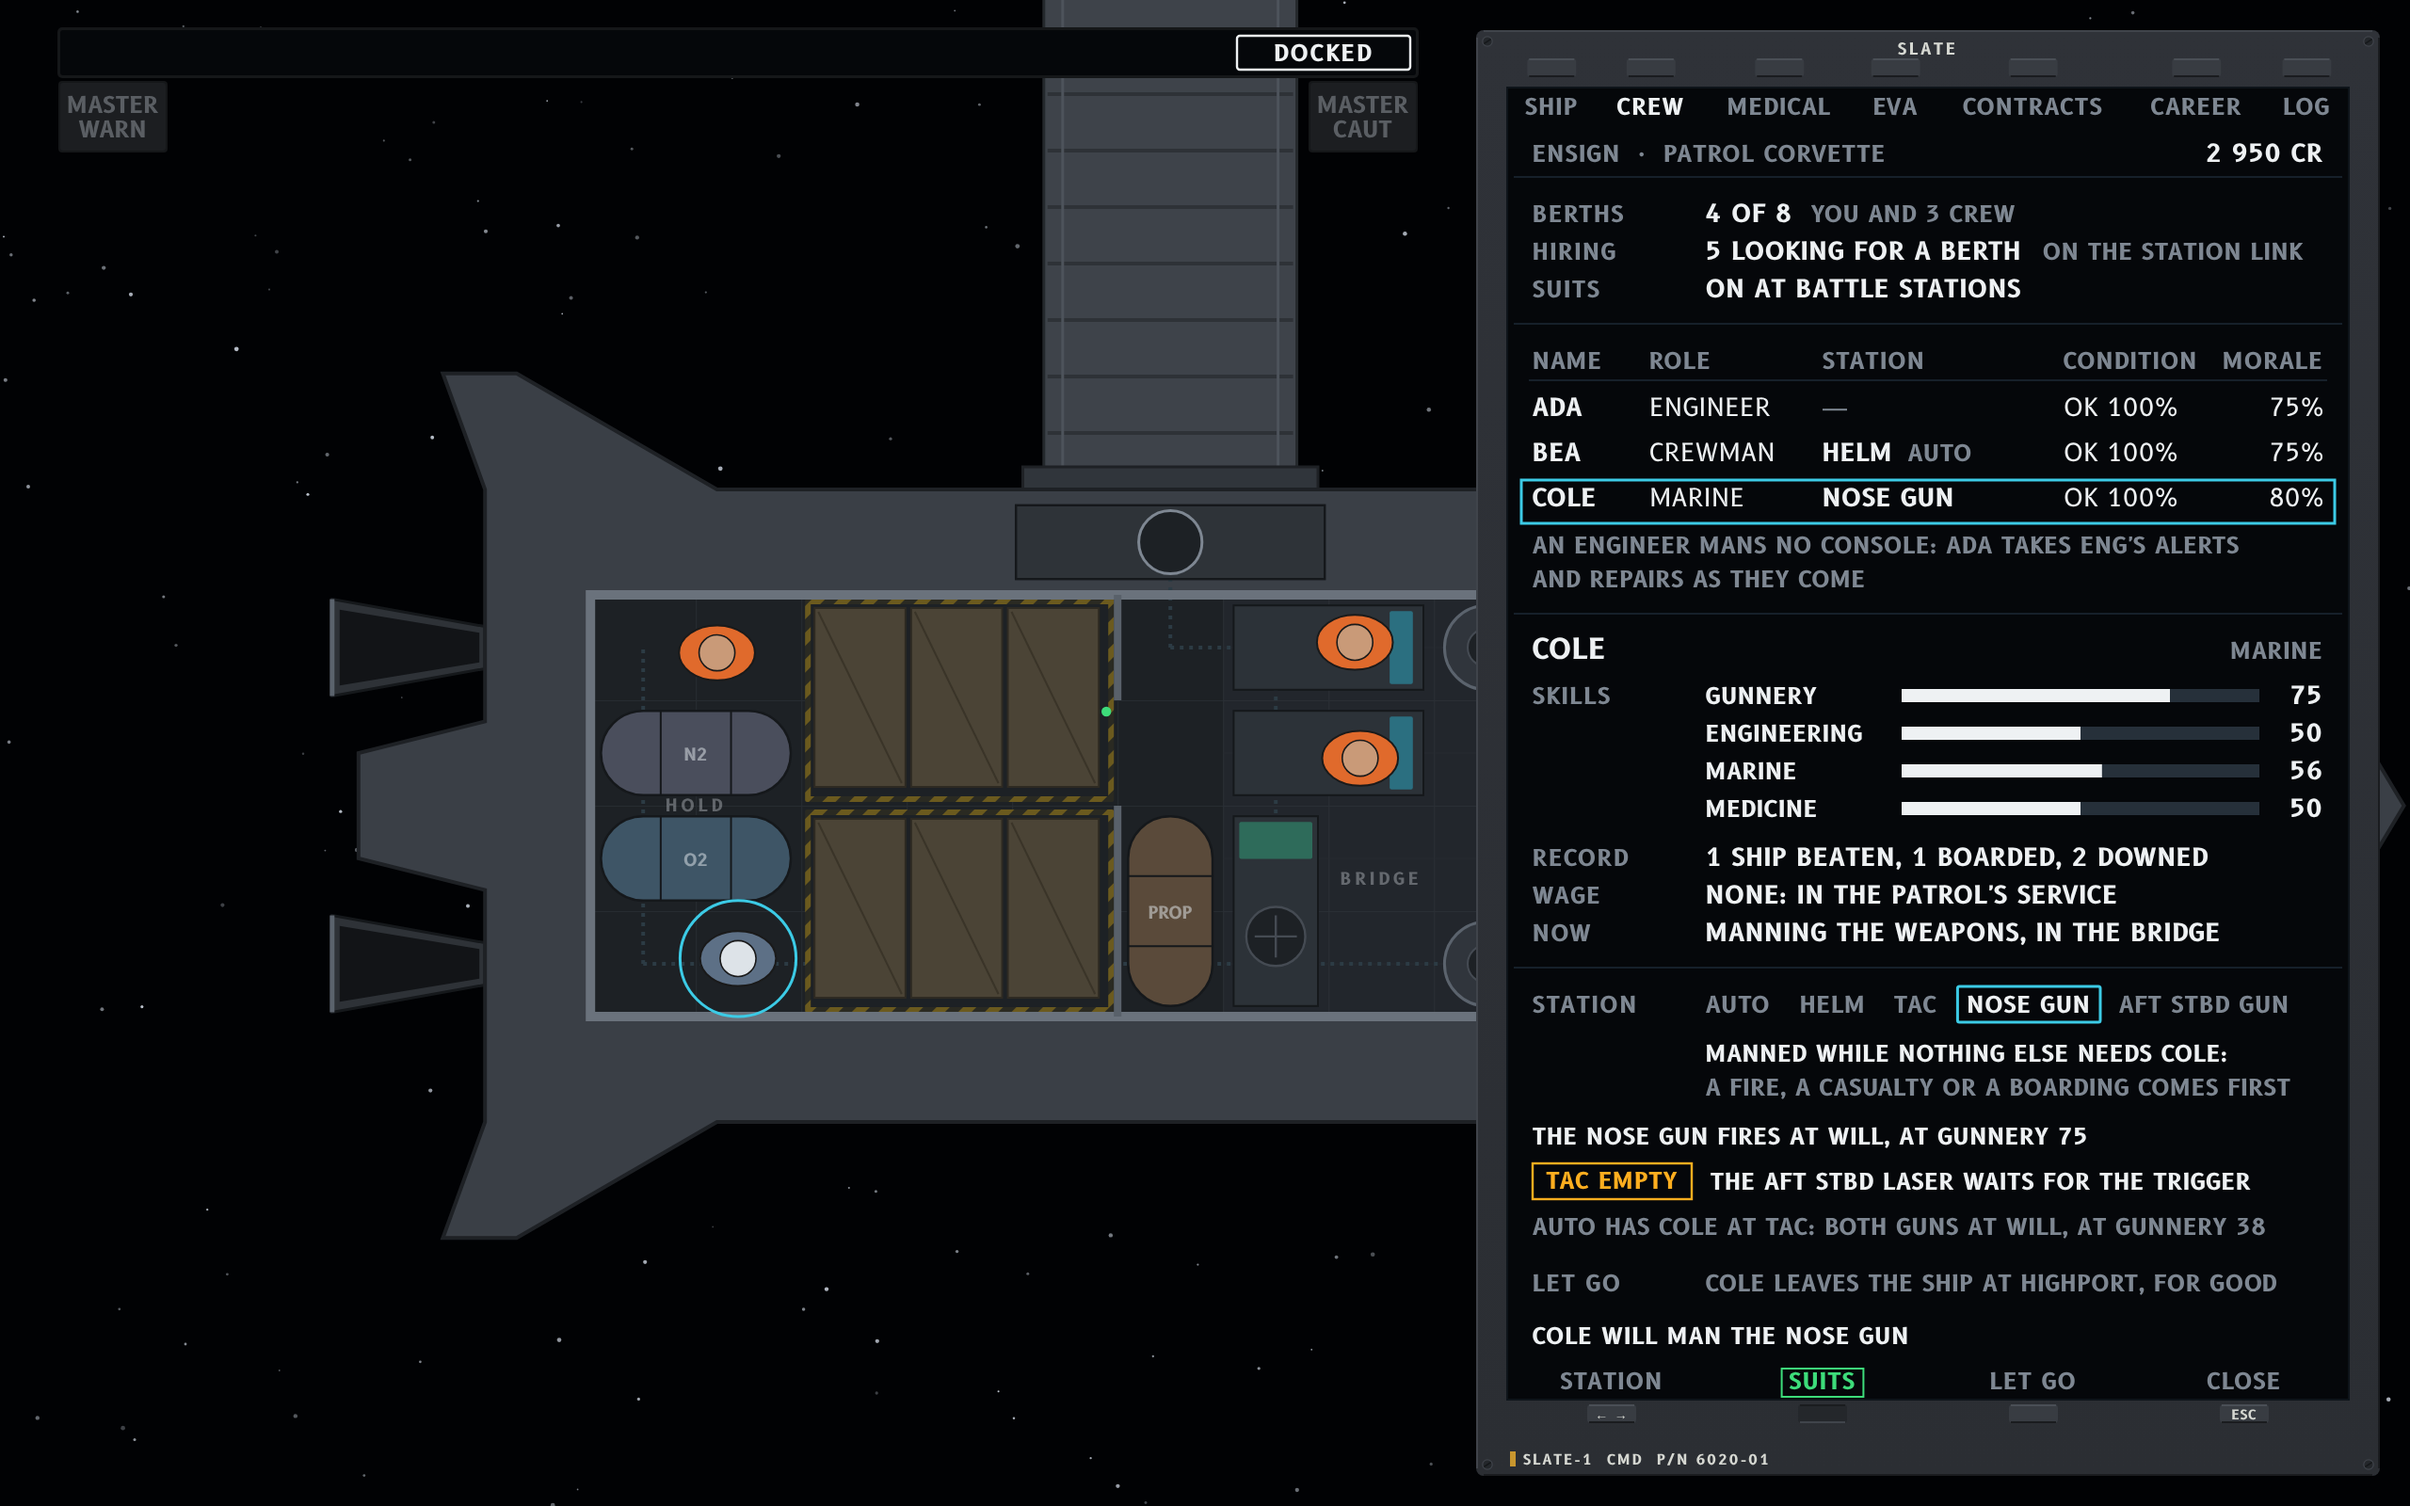
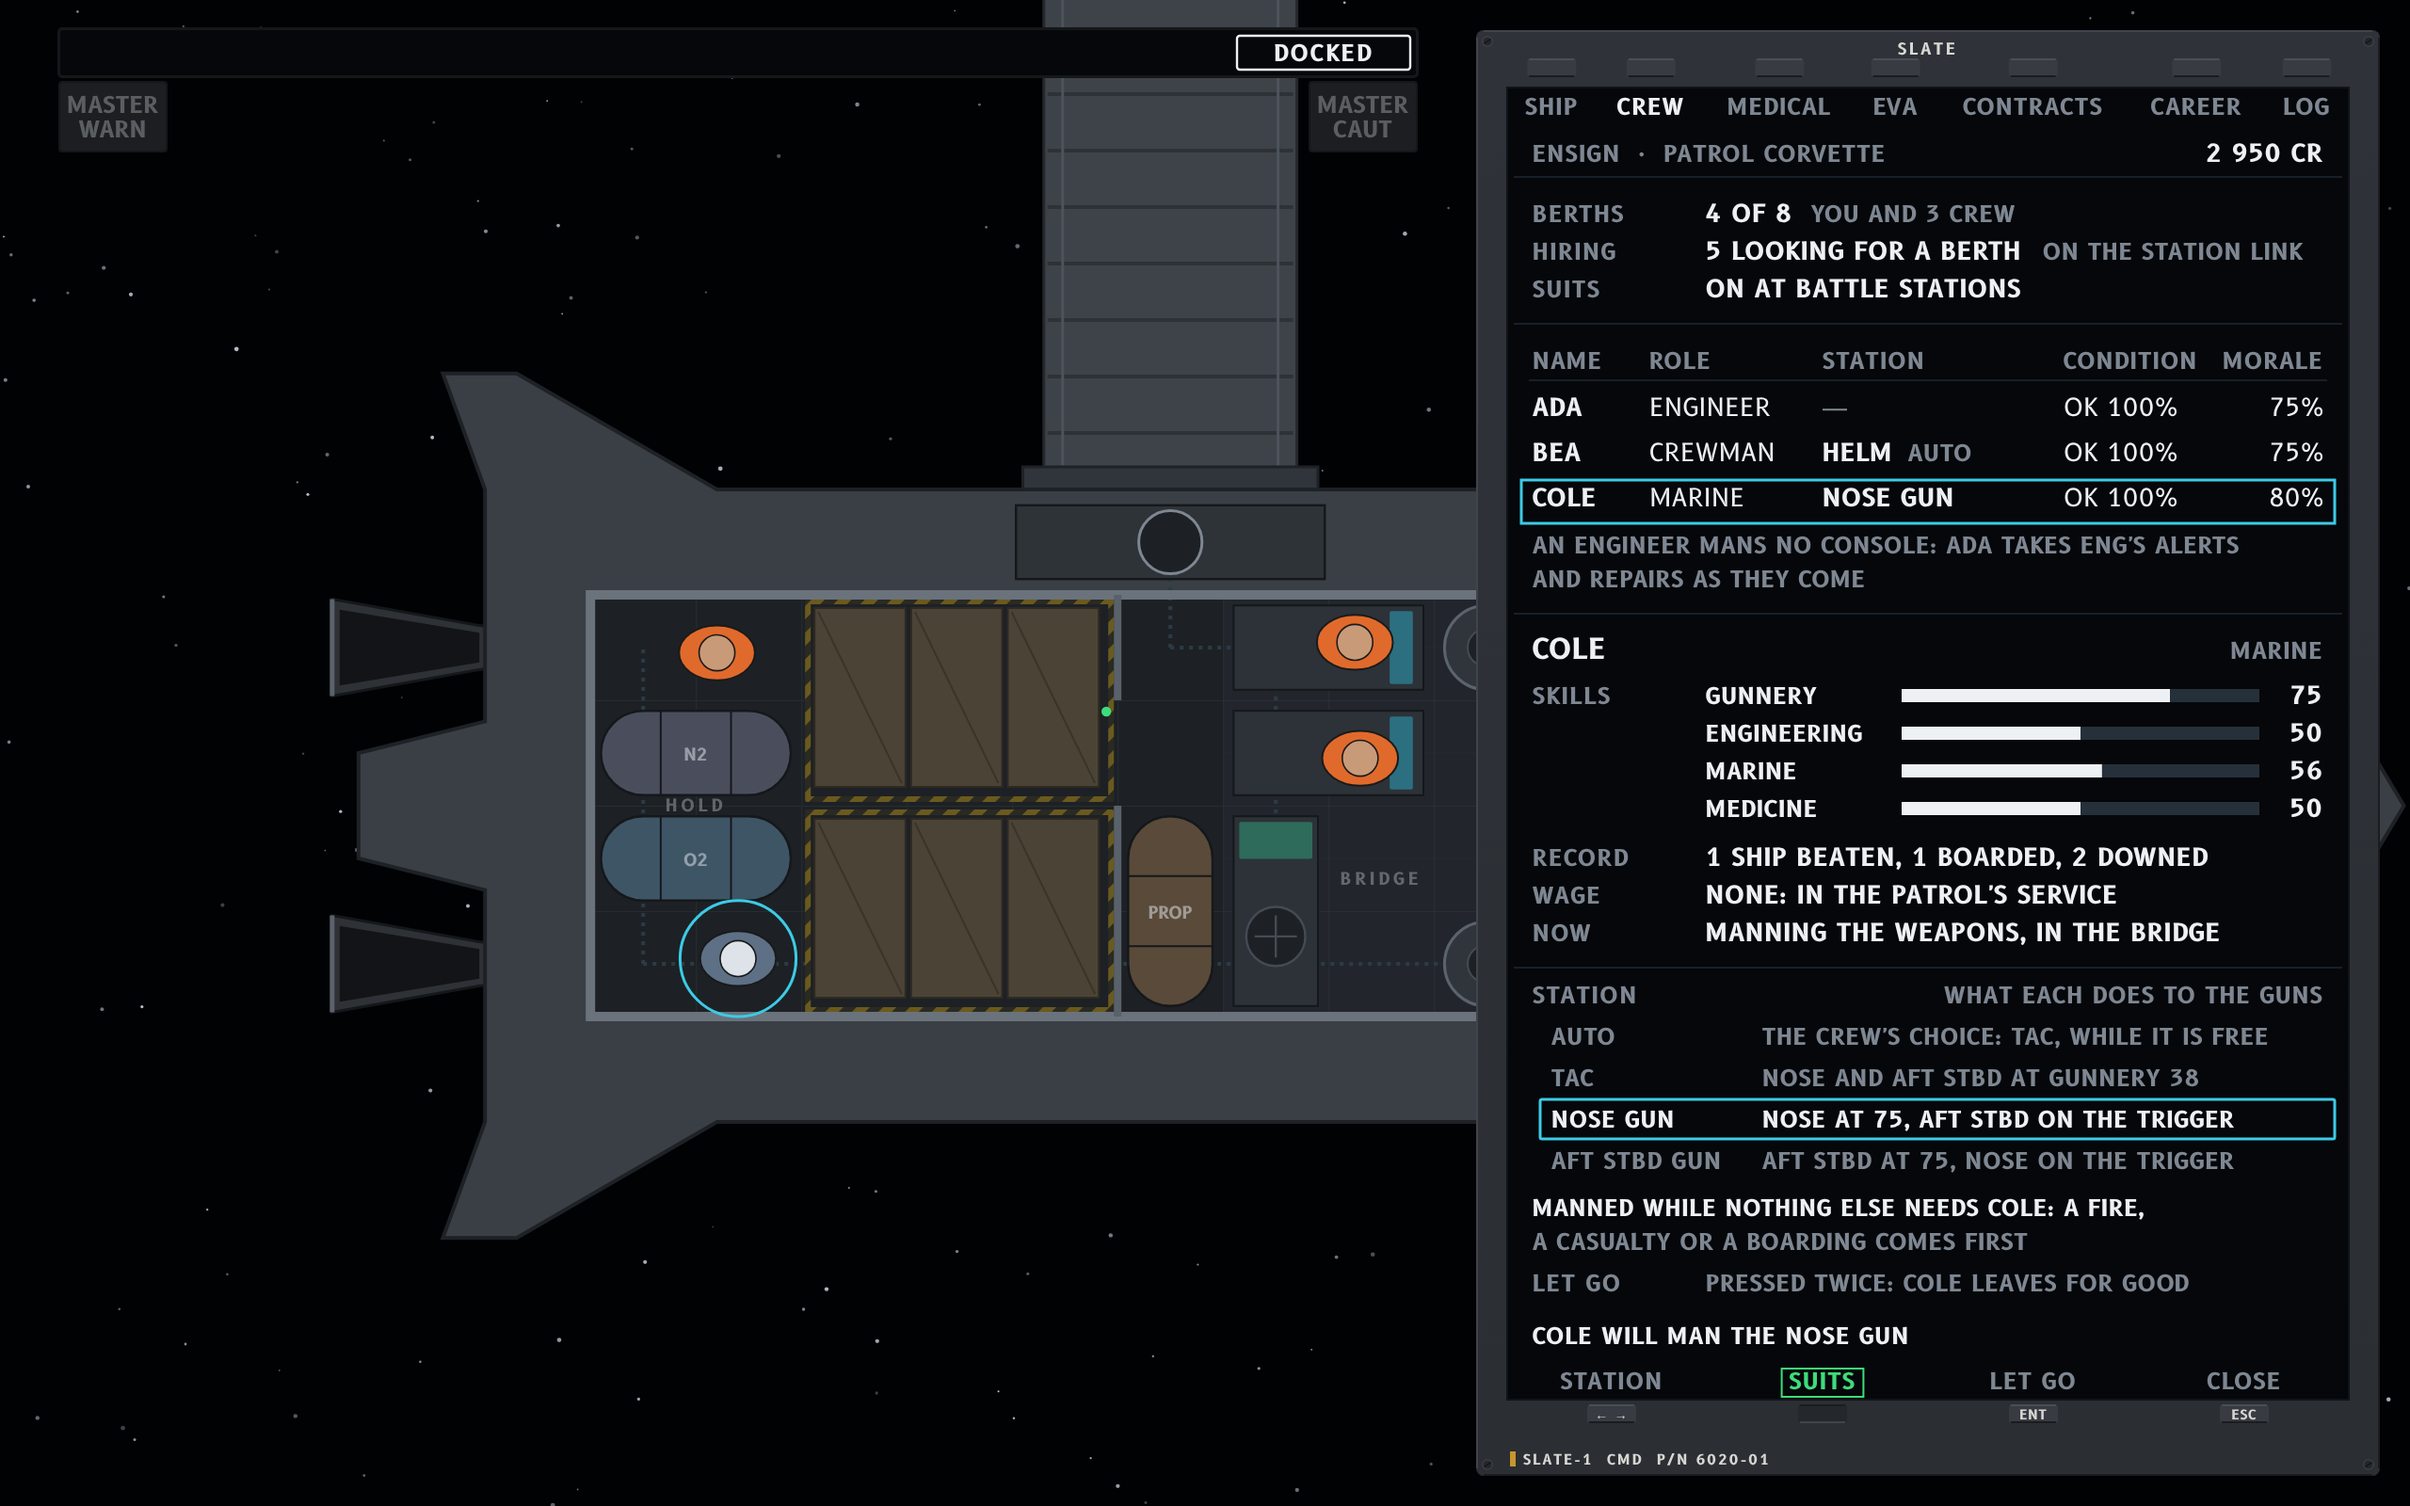
Nasa-punk screens: the slate's Crew tab at the stations spec's round 15
Cole's station selector offers only what a marine mans, with what each
choice does to the guns beside it, and letting go takes Enter twice.

Claude-Session: https://claude.ai/code/session_019poqwU7t7xAtWdh55iGaqe

Changed region(s): [[0.625, 0.6562, 0.9688, 0.875]]

diff --git a/documentation/ui-overhaul/variations/nasapunk-stations/s7-slate-crew.html b/documentation/ui-overhaul/variations/nasapunk-stations/s7-slate-crew.html
@@ -23,16 +23,19 @@
 // assignment replaces only which console a person mans, so it holds while nothing else needs them,
 // and a fire, a casualty or a boarding still comes first, as manning does today.
 //
-// The cursor is on Cole, and I have pressed → once: AUTO to the NOSE GUN. The page says what that
-// does with the game's own rules (GunCrews): a gunner at a mount works that gun at their own
-// gunnery, Cole's 75; the weapons console works every gun at half its gunner's (REMOTE_SKILL), 38;
-// a gun nobody works waits for the trigger. On the corvette the guns a gunner works are the nose's
-// coilgun and the aft starboard laser: the two autocannons are point defense, which keeps to itself,
-// and the launcher waits for the captain's word. So Cole at the nose leaves TAC empty and the laser
-// on the trigger. Docked, the guns hold whoever works them, so the order is for the next fight.
+// The cursor is on Cole, and I have pressed → twice: AUTO to TAC, then to the NOSE GUN. The selector
+// offers only what Cole's role mans (round 15, CrewRole's affinities): a marine takes the weapons
+// console or a gun, never the helm. Beside each choice the tab says what it does, with the game's
+// own rules (GunCrews): a gunner at a mount works that gun at their own gunnery, Cole's 75; the
+// weapons console works every gun at half its gunner's (REMOTE_SKILL), 38; a gun nobody works waits
+// for the trigger. On the corvette the guns a gunner works are the NOSE coilgun and the AFT STBD
+// laser: the two autocannons are point defense, which keeps to itself, and the launcher waits for
+// the captain's word. So Cole at the nose leaves the laser on the trigger. Docked, the guns hold
+// whoever works them, so the order is for the next fight.
 //
-// Letting go is docked only (CrewHiring.dismiss: "Dock at a station to let crew go"), and the
-// response would be the game's "Cole leaves the ship". Suits at battle stations is on, the game's
+// Letting go is docked only (CrewHiring.dismiss: "Dock at a station to let crew go") and can't be
+// undone, so it takes a second press (round 15): the first asks "Let Cole go? [Enter] again: Cole
+// leaves the ship for good", and the second gives the game's "Cole leaves the ship". Suits at battle stations is on, the game's
 // default. The starting crew are the service's, so they draw no wage. Skills from the game: every
 // skill starts at 50, a marine's gunnery at 75 (CrewDef.marine), and the boarding and the two Cole
 // downed took Cole's marine skill to 56. Morale rose 5 points for the ship beaten and 5 more for
@@ -71,8 +74,8 @@ s += consoleFace(P.x, P.y, P.w, P.h, {
   // the tabs the slate has now: no Boarding (not latched) and no Prisoners (none held)
   tabs: ['SHIP', { t: 'CREW', state: 'cur' }, 'MEDICAL', 'EVA', 'CONTRACTS', 'CAREER', 'LOG'].map(t => typeof t === 'string' ? { t, w: tabW(t) } : Object.assign(t, { w: tabW(t.t) })),
   // the orders: the cursor's station stepped with the arrows (the slate takes them, 4); suits at
-  // battle stations, on; letting the cursor's person go, docked only, by its key alone
-  footer: [{ t: 'STATION', k: '← →' }, { t: 'SUITS', state: 'on' }, { t: 'LET GO' }, { t: 'CLOSE', k: 'ESC' }],
+  // battle stations, on; letting the cursor's person go, docked only, on Enter pressed twice
+  footer: [{ t: 'STATION', k: '← →' }, { t: 'SUITS', state: 'on' }, { t: 'LET GO', k: 'ENT' }, { t: 'CLOSE', k: 'ESC' }],
   content: (gx, gy, gw, gh) => {
     let c = '';
     const L = gx + 14, R = gx + gw - 14, V0 = L + 92;
@@ -115,25 +118,22 @@ s += consoleFace(P.x, P.y, P.w, P.h, {
     c += head(gy + 454, 'NOW') + val(V0, gy + 454, 'MANNING THE WEAPONS, IN THE BRIDGE');
     c += rule(gy + 468);
 
-    // the order, as a selector: its positions in a row, the one set boxed in the cursor's colour;
-    // then when it holds, and what it does to the guns against AUTO
-    c += head(gy + 492, 'STATION');
+    // the order, as a selector: the positions Cole's role can take, one under another with what each
+    // does to the guns beside it, the one set boxed in the cursor's colour (no HELM for a marine)
+    c += head(gy + 487, 'STATION') + text(R, gy + 487, 'WHAT EACH DOES TO THE GUNS', { size: 12, bold: true, fill: C.dim, anchor: 'end', track: 0.5 });
     {
-      let ox = V0;
-      ['AUTO', 'HELM', 'TAC', 'NOSE GUN', 'AFT STBD GUN'].forEach(t => {
-        const w = tw(t, 12, true, 0.5), on = t === 'NOSE GUN';
-        if (on) c += rect(ox - 5, gy + 478, w + 10, 19, { stroke: C.cyan, sw: 1.5, r: 1 });
-        c += text(ox, gy + 492, t, { size: 12, bold: true, fill: on ? C.white : C.dim, track: 0.5 });
-        ox += w + 15;
+      const S0 = L + 10, E0 = L + 122;
+      [['AUTO', 'THE CREW\'S CHOICE: TAC, WHILE IT IS FREE'], ['TAC', 'NOSE AND AFT STBD AT GUNNERY 38'],
+        ['NOSE GUN', 'NOSE AT 75, AFT STBD ON THE TRIGGER'], ['AFT STBD GUN', 'AFT STBD AT 75, NOSE ON THE TRIGGER']].forEach(([t, e], i) => {
+        const y = gy + 509 + i * 22, on = t === 'NOSE GUN';
+        if (on) c += rect(S0 - 6, y - 15, R - S0 + 12, 21, { stroke: C.cyan, sw: 1.5, r: 1 });
+        c += text(S0, y, t, { size: 12, bold: true, fill: on ? C.white : C.dim, track: 0.5 });
+        c += text(E0, y, e, { size: 12, bold: true, fill: on ? C.white : C.dim, track: 0.4 });
       });
     }
-    c += note(V0, gy + 518, 'MANNED WHILE NOTHING ELSE NEEDS COLE:');
-    c += note(V0, gy + 536, 'A FIRE, A CASUALTY OR A BOARDING COMES FIRST', C.dim);
-    c += note(L, gy + 562, 'THE NOSE GUN FIRES AT WILL, AT GUNNERY 75');
-    const ew = tw('TAC EMPTY', 12, true, 0.5) + 14;
-    c += I.box(L, gy + 572, ew, 19, 'TAC EMPTY', 'caution', { size: 12 }) + note(L + ew + 10, gy + 586, 'THE AFT STBD LASER WAITS FOR THE TRIGGER');
-    c += note(L, gy + 610, 'AUTO HAS COLE AT TAC: BOTH GUNS AT WILL, AT GUNNERY 38', C.dim);
-    c += head(gy + 640, 'LET GO') + note(V0, gy + 640, 'COLE LEAVES THE SHIP AT HIGHPORT, FOR GOOD', C.dim);
+    c += note(L, gy + 600, 'MANNED WHILE NOTHING ELSE NEEDS COLE: A FIRE,');
+    c += note(L, gy + 618, 'A CASUALTY OR A BOARDING COMES FIRST', C.dim);
+    c += head(gy + 640, 'LET GO') + note(V0, gy + 640, 'PRESSED TWICE: COLE LEAVES FOR GOOD', C.dim);
 
     // the footer's response line: what the last key did
     c += text(L, gy + gh - 30, 'COLE WILL MAN THE NOSE GUN', { size: 12, bold: true, fill: C.white, track: 0.5 });

diff --git a/documentation/ui-overhaul/variations/nasapunk-stations/README.md b/documentation/ui-overhaul/variations/nasapunk-stations/README.md
@@ -1,6 +1,6 @@
 # Nasa-punk × Ship Stations
 
-The Ship Stations functional spec (`functional-stations.md`, round 14 when drawn) skinned in the
+The Ship Stations functional spec (`functional-stations.md`, round 14 when drawn, and S7 at round 15) skinned in the
 Nasa-punk style (`../../nasapunk/style-nasapunk.md`), with its words from
 [`../../nasapunk/abbrev.md`](../../nasapunk/abbrev.md). Mockups are 1280 x 800 UI units drawn at
 2x; sources are the HTML files here, using `stations.js` and the shared kit in
@@ -115,20 +115,23 @@ for the autocannon.
 
 ![The slate, crew](s7-slate-crew.png)
 
-**S7, the slate's Crew tab (10.4), on deck, docked at Highport on S6's visit.** On deck the slate
-runs the full height, and the camera's centre moves left by half its width, so the captain stands
-in the middle of the world still in view, in the hold, where Ada is idle. Highport's docking arm
-meets the port collar, and the strip reads DOCKED. Boarding went with the latch, and the raider's
-crew were handed over on docking, so there is no Prisoners tab. The roster gives each person's
-name, role, station, condition and morale, and the cursor's person, Cole, has skills, record, wage
-and what Cole is doing now. The station column is the new order (5.7, 20.7): AUTO keeps the crew's
-own choice, so Bea's helm reads AUTO, and an engineer mans no console, so Ada has no station to
-give. I have stepped Cole from AUTO to the NOSE GUN, and the page says what that does by the
-game's rules: a gunner works a mount at their own gunnery, 75, and the weapons console works every
-gun at half its gunner's, so leaving TAC empty puts the aft starboard laser on the trigger, where
-AUTO would have both guns at will at 38. The order holds while nothing else needs Cole: a fire, a
-casualty or a boarding still comes first, as manning a console does today. Letting go is docked
-only, and the page says it is for good, since the game removes the person.
+**S7, the slate's Crew tab (10.4), on deck, docked at Highport on S6's visit (round 15).** On deck
+the slate runs the full height, and the camera's centre moves left by half its width, so the
+captain stands in the middle of the world still in view, in the hold, where Ada is idle.
+Highport's docking arm meets the port collar, and the strip reads DOCKED. Boarding went with the
+latch, and the raider's crew were handed over on docking, so there is no Prisoners tab. The roster
+gives each person's name, role, station, condition and morale, and the cursor's person, Cole, has
+skills, record, wage and what Cole is doing now. The station column is the new order, a station
+assignment: the console a person mans whenever nothing else needs them. AUTO keeps the crew's own
+choice, so Bea's helm reads AUTO, and an engineer mans no console, so Ada has no selector. Cole's
+selector offers only what a marine mans, the weapons console and the two guns a gunner works (the
+point-defense autocannons keep to themselves and the launcher waits for the captain), and beside
+each choice it says what it does by the game's rules: a gunner works a mount at their own gunnery,
+75, and the weapons console works every gun at half of it, 38, and a gun nobody works waits for
+the trigger. I have stepped Cole from AUTO through TAC to the NOSE GUN, which leaves AFT STBD on
+the trigger. A fire, a casualty or a boarding still comes first, as manning a console does today.
+Letting go is docked only and can't be undone, so it takes Enter twice, and the page says it is
+for good.
 
 ## Round 5 critique
 

diff --git a/documentation/ui-overhaul/variations/nasapunk-round-log.md b/documentation/ui-overhaul/variations/nasapunk-round-log.md
@@ -363,9 +363,13 @@ rescues, fires and wounded a marine takes on.
 
 | Spec | Note sent this round | Landed |
 |---|---|---|
-| Stations (10.4, 20.7) | What a station assignment does is unwritten. S7 draws it as which console a person mans while nothing else needs them, AUTO for the crew's own choice, over only the consoles a person can work: the helm, the weapons console and the guns a gunner works | |
-| Stations (10.4) | Letting go can't be undone: the game removes the person (`CrewHiring.dismiss`), who doesn't go back on the station's hiring list. Should it take two presses, as the beacon and abandon ship do? | |
-| Stations (10.4) | Two people set to one console: which gives way? A suggestion: the newer order wins, the other goes back to AUTO, and the footer says so | |
+| Stations (10.4, 20.7) | What a station assignment does is unwritten. S7 draws it as which console a person mans while nothing else needs them, AUTO for the crew's own choice, over only the consoles a person can work: the helm, the weapons console and the guns a gunner works | Round 15: as drawn, and the selector offers only what the person's role mans, so a marine has no HELM (`CrewRole`). S7 is redrawn to it |
+| Stations (10.4) | Letting go can't be undone: the game removes the person (`CrewHiring.dismiss`), who doesn't go back on the station's hiring list. Should it take two presses, as the beacon and abandon ship do? | Round 15: two presses, "Let Cole go? [Enter] again: Cole leaves the ship for good" |
+| Stations (10.4) | Two people set to one console: which gives way? A suggestion: the newer order wins, the other goes back to AUTO, and the footer says so | Round 15: as suggested, with "Bea goes back to AUTO" on the footer |
+
+Round 15 of the stations spec took all three, and S7 is redrawn to it: Cole's selector reads AUTO,
+TAC, NOSE GUN and AFT STBD GUN, one under another with what each does to the guns beside it, and
+LET GO sits on Enter, pressed twice.
 
 ## Next
 
